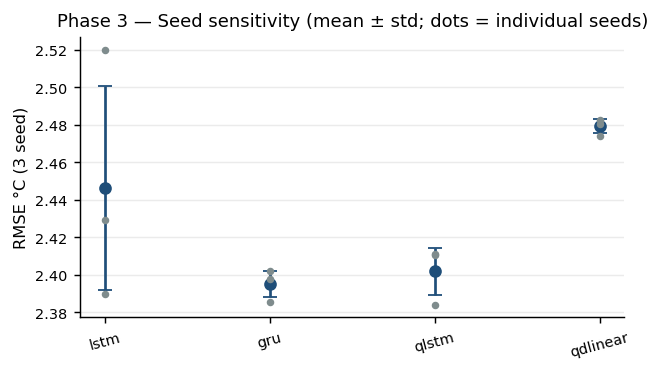
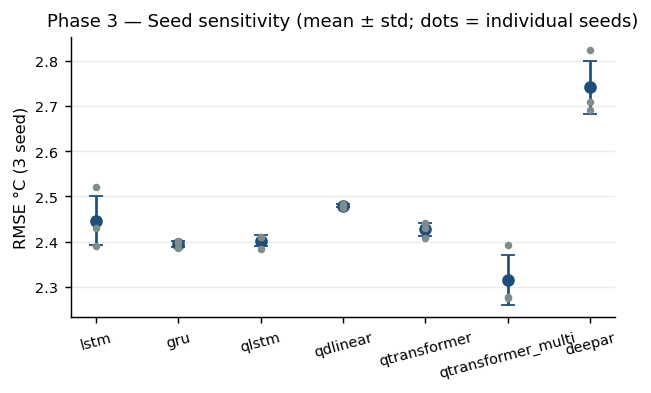
Extend multiseed study to the headline models (7 models x 3 seeds)
Adds qtransformer, qtransformer_multi and deepar to run_multiseed.py
(SEEDS 42/7/2025 unchanged). New stds: QT 2.427+/-0.014 (stable),
QT-multi 2.316+/-0.055 (noisiest in the roster -- the single-seed 2.275 was
on the lucky side, but the multivariate lead persists across seeds),
DeepAR 2.741+/-0.059. multiseed figure refreshed.

Also: make_phase_figures gains --paper DIR (title-less LNCS figure copies);
.gitignore report/ rule anchored to the root so scripts/report stays tracked.

diff --git a/scripts/ablation/run_multiseed.py b/scripts/ablation/run_multiseed.py
@@ -4,7 +4,10 @@ Phase-1/2 left several models inside a ~0.05 RMSE band (LSTM 2.429, GRU 2.386,
 qLSTM-median 2.384, QT 2.430). Each model is retrained on 3 seeds and the
 mean +/- std reported, with the seed-42 ranking checked for stability.
 
-  python scripts/ablation/run_multiseed.py            # 5 models x 3 seeds = 15 trainings
+Phase-5 extension: the headline models (DeepAR, QT, QT-multi) get their
+own seed std too -- 7 models x 3 seeds.
+
+  python scripts/ablation/run_multiseed.py            # 7 models x 3 seeds = 21 trainings
   python scripts/ablation/run_multiseed.py --smoke
 """
 from __future__ import annotations
@@ -23,10 +26,12 @@ sys.path.insert(0, str(ROOT))
 from src import experiment as E  # noqa: E402
 from src.baselines.lstm_baseline import LstmConfig, train_lstm  # noqa: E402
 from src.metrics import report, report_probabilistic  # noqa: E402
+from src.models.deepar import DeepARConfig, quantiles_from_samples, sample_forecast, train_deepar  # noqa: E402
 from src.models.dlinear import DLinearConfig, predict_dlinear, train_dlinear  # noqa: E402
 from src.models.qlstm import QLstmConfig, QUANTILES_7, predict_qlstm, train_qlstm  # noqa: E402
+from src.models.quantile_transformer import QTransformerConfig, predict_quantiles, train_qtransformer  # noqa: E402
 from src.preprocessing import TARGET  # noqa: E402
-from src.seq_data import make_encoder_windows  # noqa: E402
+from src.seq_data import make_ar_windows, make_encoder_windows  # noqa: E402
 
 QUANTILES = np.array(QUANTILES_7)
 ALPHA = 0.1
@@ -45,8 +50,19 @@ def main() -> None:
     x_tr, y_tr = make_encoder_windows(data.train, L, H, stride=1)
     x_va, y_va = make_encoder_windows(data.val, L, H, stride=H)
     x_te, y_te = make_encoder_windows(data.test, L, H, stride=H)
+    yseq_tr, cov_tr = make_ar_windows(data.train, L, H, stride=1)
+    yseq_va, cov_va = make_ar_windows(data.val, L, H, stride=H)
+    yseq_te, cov_te = make_ar_windows(data.test, L, H, stride=H)
+    # the official multivariate covset (independent sensors only)
+    INDEP = ["p (mbar)", "rh (%)", "wv (m/s)", "max. wv (m/s)", "wd (deg)"]
+    data_mv = E.prepare(use_covariates=True, covariate_cols=INDEP)
+    xm_tr, ym_tr = make_encoder_windows(data_mv.train, L, H, stride=1)
+    xm_va, ym_va = make_encoder_windows(data_mv.val, L, H, stride=H)
+    xm_te, ym_te = make_encoder_windows(data_mv.test, L, H, stride=H)
     if args.smoke:
         x_tr, y_tr = x_tr[:2000], y_tr[:2000]
+        yseq_tr, cov_tr = yseq_tr[:2000], cov_tr[:2000]
+        xm_tr, ym_tr = xm_tr[:2000], ym_tr[:2000]
     inv = lambda a: data.scaler.inverse_target(a, TARGET)  # noqa: E731
     y_flat = inv(y_te).reshape(-1)
 
@@ -58,7 +74,8 @@ def main() -> None:
         return r["rmse"], r["crps"]
 
     out: dict = {"seeds": list(seeds), "smoke": bool(args.smoke), "models": {}}
-    for name in ("lstm", "gru", "qlstm", "qdlinear"):
+    for name in ("lstm", "gru", "qlstm", "qdlinear",
+                 "qtransformer", "qtransformer_multi", "deepar"):
         runs = []
         for sd in seeds:
             if name in ("lstm", "gru"):
@@ -74,12 +91,34 @@ def main() -> None:
                 m, _ = train_qlstm(x_tr[:, :, 0], y_tr, x_va[:, :, 0], y_va, cfg, device=DEVICE)
                 r, c = prob_of(predict_qlstm(m, x_te[:, :, 0], device=DEVICE))
                 runs.append({"seed": sd, "rmse": r, "crps": c})
-            else:  # qdlinear
+            elif name == "qdlinear":
                 cfg = DLinearConfig(quantiles=QUANTILES_7, seed=sd)
                 if args.smoke:
                     cfg.epochs = 1
                 m, _ = train_dlinear(x_tr[:, :, 0], y_tr, x_va[:, :, 0], y_va, cfg, device=DEVICE)
                 r, c = prob_of(predict_dlinear(m, x_te[:, :, 0], device=DEVICE))
+                runs.append({"seed": sd, "rmse": r, "crps": c})
+            elif name in ("qtransformer", "qtransformer_multi"):
+                mv = name == "qtransformer_multi"
+                cfg = QTransformerConfig(
+                    n_features=(data_mv if mv else data).n_features,
+                    quantiles=QUANTILES_7, seed=sd)
+                if args.smoke:
+                    cfg.epochs = 1
+                m, _ = train_qtransformer(*((xm_tr, ym_tr, xm_va, ym_va) if mv
+                                            else (x_tr, y_tr, x_va, y_va)),
+                                          cfg, device=DEVICE)
+                r, c = prob_of(predict_quantiles(m, xm_te if mv else x_te, device=DEVICE))
+                runs.append({"seed": sd, "rmse": r, "crps": c})
+            else:  # deepar
+                cfg = DeepARConfig(seed=sd)
+                if args.smoke:
+                    cfg.epochs = 1
+                    cfg.n_samples = 50
+                m, _ = train_deepar(yseq_tr, cov_tr, yseq_va, cov_va, cfg, device=DEVICE)
+                samples = sample_forecast(m, yseq_te, cov_te, cfg, device=DEVICE,
+                                          batch_size=128)
+                r, c = prob_of(quantiles_from_samples(samples, QUANTILES))
                 runs.append({"seed": sd, "rmse": r, "crps": c})
             print(f"  {name:9s} seed {sd:>4} rmse {runs[-1]['rmse']:.4f}")
         rmses = [r["rmse"] for r in runs]

diff --git a/scripts/report/make_phase_figures.py b/scripts/report/make_phase_figures.py
@@ -60,13 +60,29 @@ MAIN_FIGURES = {
 }
 
 
+# --paper <dir>: additionally write a copy of each figure WITHOUT the
+# process-jargon figure title (suptitle / "Phase N —" axes titles) into <dir>
+# for direct inclusion in the LNCS report (captions live in LaTeX there).
+PAPER_DIR: Path | None = None
+
+
 def _save(fig, phase: int, name: str) -> None:
     out_dir = RES / "figures" / ("main" if name in MAIN_FIGURES else "extra")
     out_dir.mkdir(parents=True, exist_ok=True)
     out = out_dir / name
     fig.savefig(out)
-    plt.close(fig)
     print(f"  wrote {out}")
+    if PAPER_DIR is not None:
+        if fig._suptitle is not None:
+            fig._suptitle.remove()
+        for ax in fig.axes:
+            if ax.get_title().startswith("Phase"):
+                ax.set_title("")
+        fig.tight_layout()
+        PAPER_DIR.mkdir(parents=True, exist_ok=True)
+        fig.savefig(PAPER_DIR / name, dpi=200)
+        print(f"  wrote {PAPER_DIR / name} (paper copy)")
+    plt.close(fig)
 
 
 # ------------------------------------------------------------------ phase 1
@@ -800,9 +816,14 @@ PHASES = {
 
 
 def main() -> None:
+    global PAPER_DIR
     ap = argparse.ArgumentParser()
     ap.add_argument("--phase", default="all", choices=("1", "2", "3", "4", "5", "all"))
+    ap.add_argument("--paper", default=None, metavar="DIR",
+                    help="also write title-less copies into DIR (LNCS figures)")
     args = ap.parse_args()
+    if args.paper:
+        PAPER_DIR = Path(args.paper)
     phases = (1, 2, 3, 4, 5) if args.phase == "all" else (int(args.phase),)
     for ph in phases:
         print(f"Phase {ph} figures:")